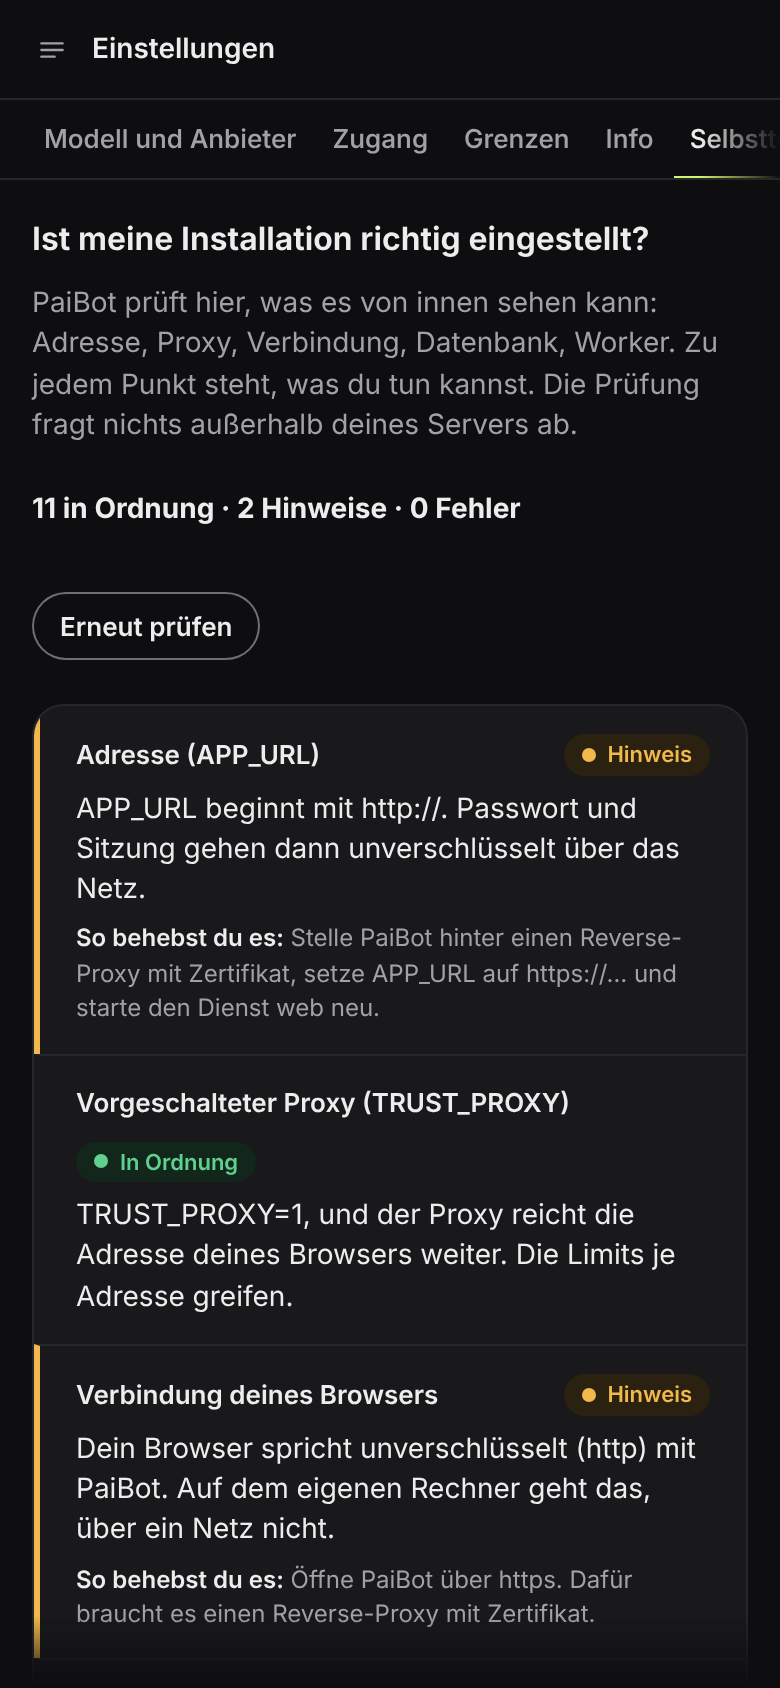
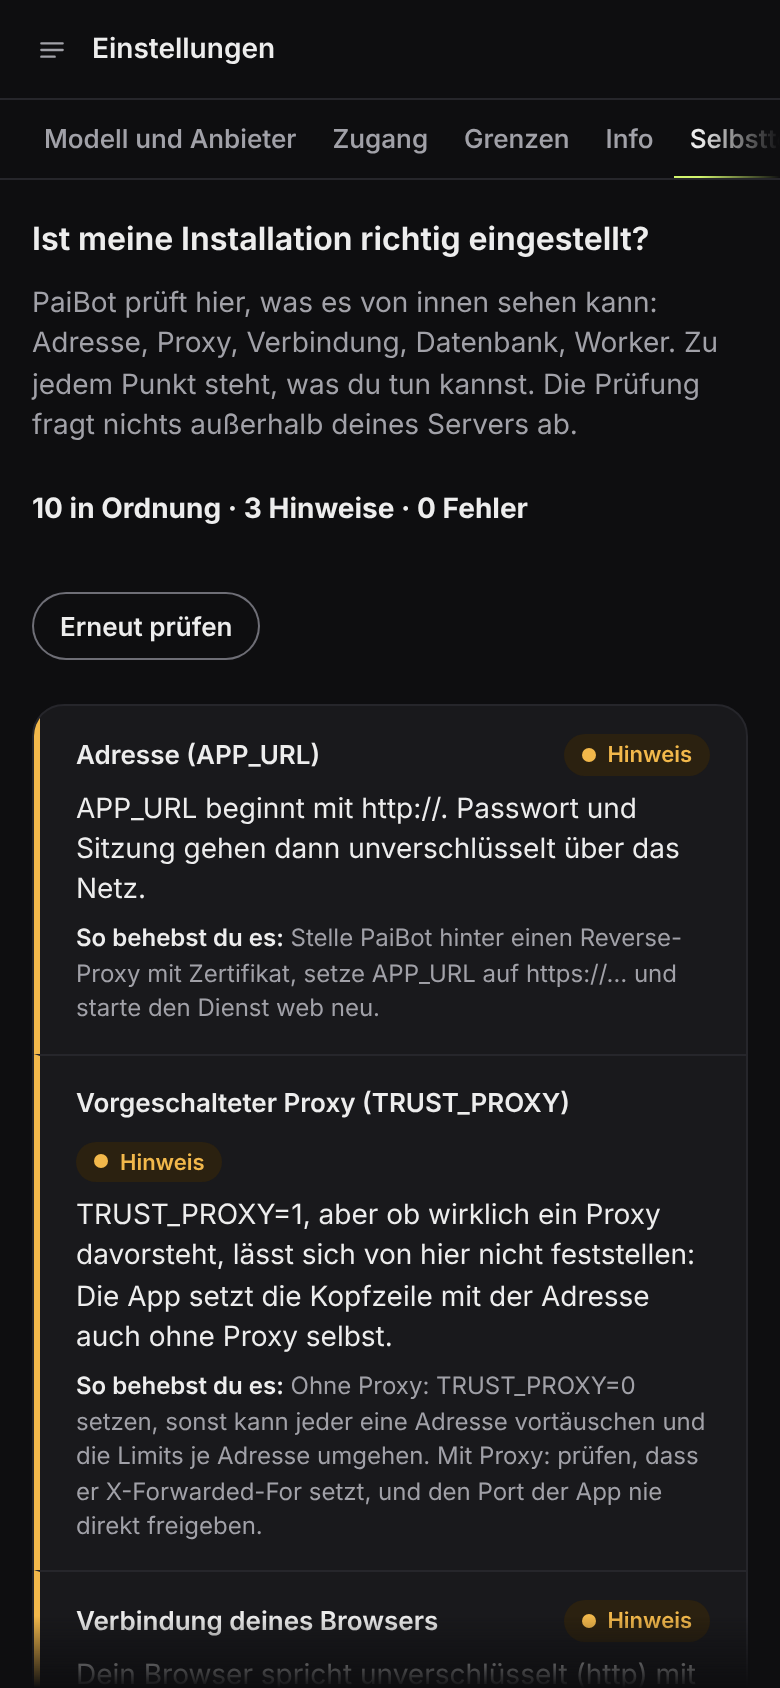
docs: Bilder zum Selbsttest neu aufgenommen (#62)
Aufgenommen per Skript mit Beispiel-Daten; Zusammenfassung und Text der Proxy-Prüfung haben sich
geändert.

Claude-Session: https://claude.ai/code/session_01MLo9cAeNc1r994E5agV7ky

diff --git a/docs/funktion-selbsttest.md b/docs/funktion-selbsttest.md
@@ -19,9 +19,9 @@ Viele Fehler beim Betrieb fallen erst auf, wenn etwas schiefgeht: eine falsche A
 ## So benutzt du es
 
 1. Melde dich an und klick unten links in der Seitenleiste auf **Du**, dann unter **Hilfe** auf **Selbsttest** (oder in den Einstellungen auf den Reiter **Selbsttest**).
-2. PaiBot prüft sofort; oben steht die Zusammenfassung, zum Beispiel „11 in Ordnung · 2 Hinweise · 0 Fehler“.
+2. PaiBot prüft sofort; oben steht die Zusammenfassung, zum Beispiel „10 in Ordnung · 3 Hinweise · 0 Fehler“.
 
-   ![Reiter „Selbsttest“: oben die Zusammenfassung „11 in Ordnung · 2 Hinweise · 0 Fehler“ und „Erneut prüfen“, darunter die ersten Prüfungen mit „Hinweis“ bzw. „In Ordnung“](assets/screenshots/selbsttest.png)
+   ![Reiter „Selbsttest“: oben die Zusammenfassung „10 in Ordnung · 3 Hinweise · 0 Fehler“ und „Erneut prüfen“, darunter die ersten Prüfungen mit „Hinweis“ bzw. „In Ordnung“](assets/screenshots/selbsttest.png)
 3. Geh die Liste von oben nach unten durch. Bei jedem Punkt mit **Hinweis** (gelb) oder **Fehler** (rot) steht unter **So behebst du es**, was zu tun ist.
 
    ![Punkt „Adresse (APP_URL)“ mit „Hinweis“: APP_URL beginnt mit http://, darunter „So behebst du es“](assets/screenshots/selbsttest-hinweise.png)
